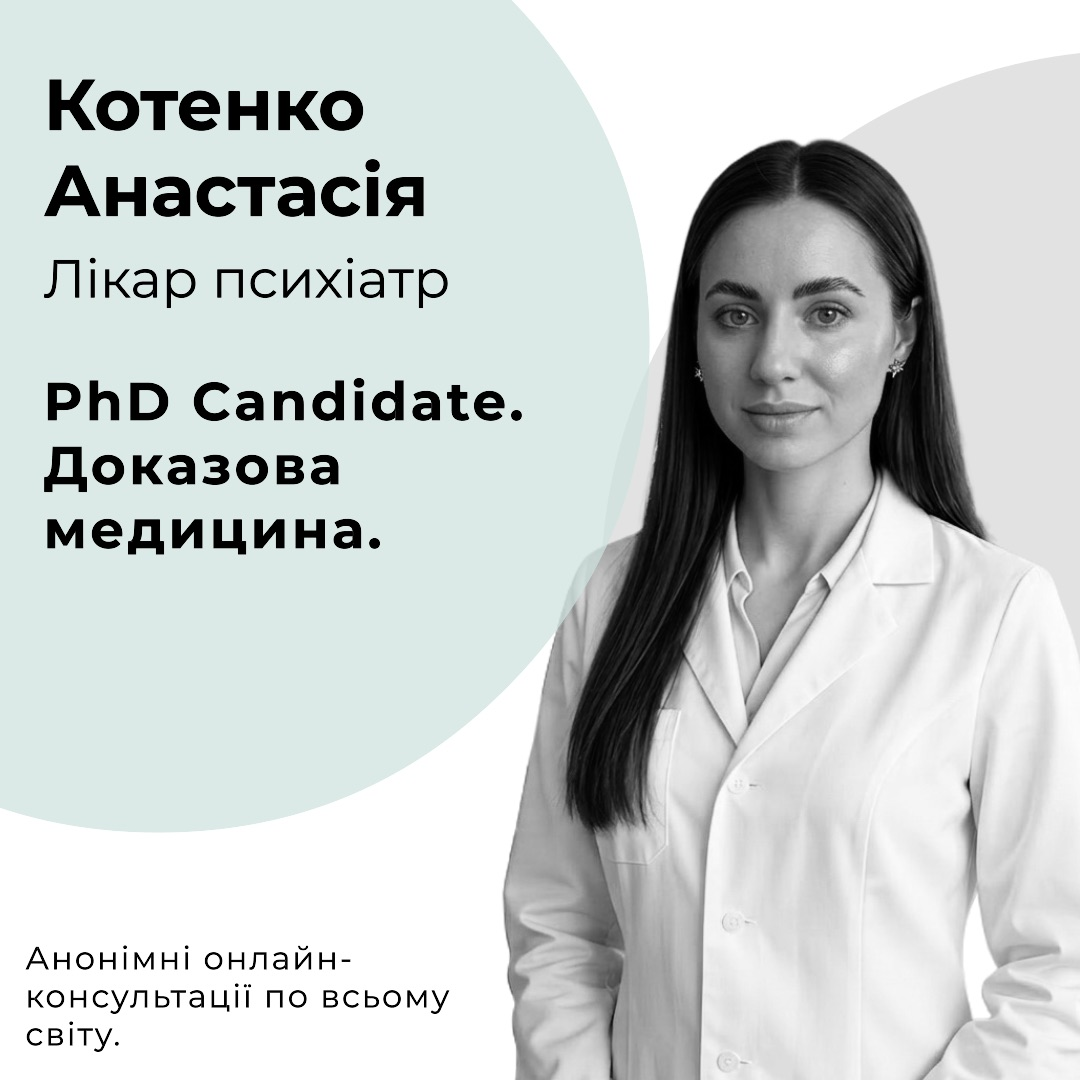
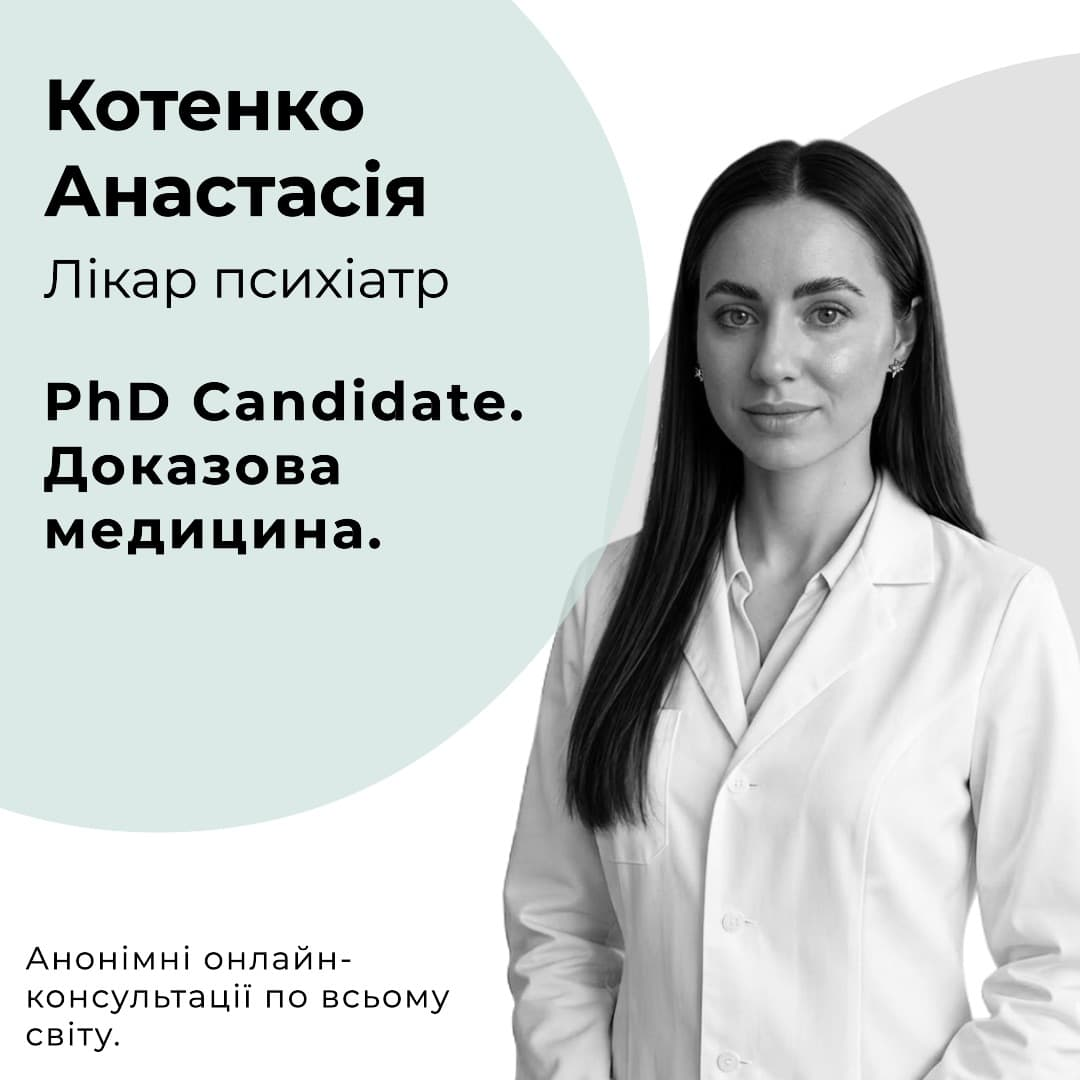
upd

Changed region(s): [[0.1833, 0.4278, 0.2139, 0.4583]]

diff --git a/index.html b/index.html
@@ -291,7 +291,7 @@
                             <div class="relative group">
                                 <div class="absolute -inset-1 bg-gradient-to-r from-digital-teal to-soft-indigo rounded-full blur opacity-25 group-hover:opacity-50 transition duration-1000"></div>
                                 <div class="relative w-94 h-94 lg:w-80 lg:h-80 rounded-full border-4 border-slate-800 shadow-2xl bg-slate-700/50 flex items-center justify-center overflow-hidden p-6">
-                                     <img src="https://psikhiatr-onlayn.kiev.ua/assets/img/doc/md_kotenko.jpeg" alt="Психіатр Котенко Анастасія Олександрівна" class="w-full h-full object-cover rounded-full">
+                                     <img src="https://kotenko.online/md_kotenko.jpeg" alt="Психіатр Котенко Анастасія Олександрівна" class="w-full h-full object-cover rounded-full">
                                 </div>
                             </div>
                         </div>
